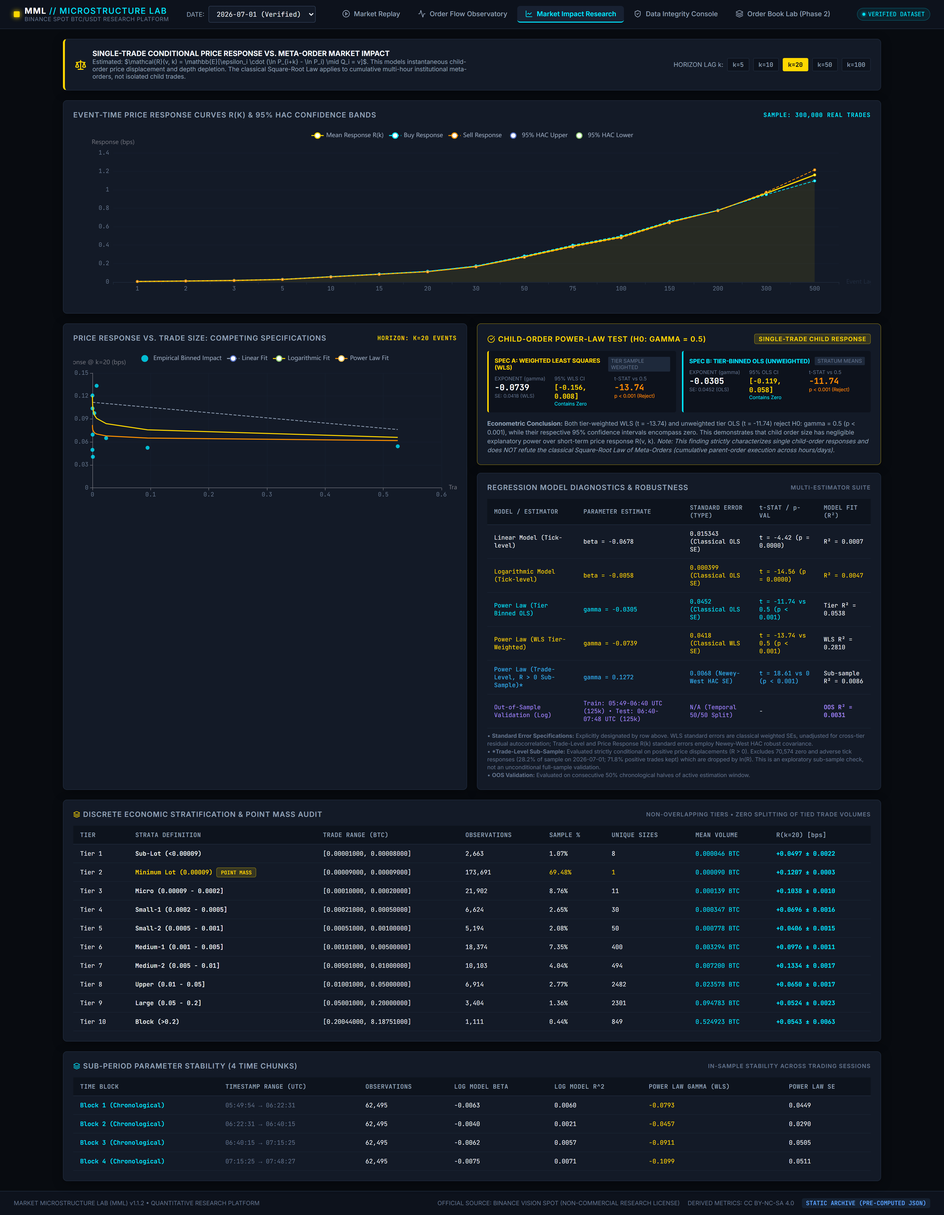
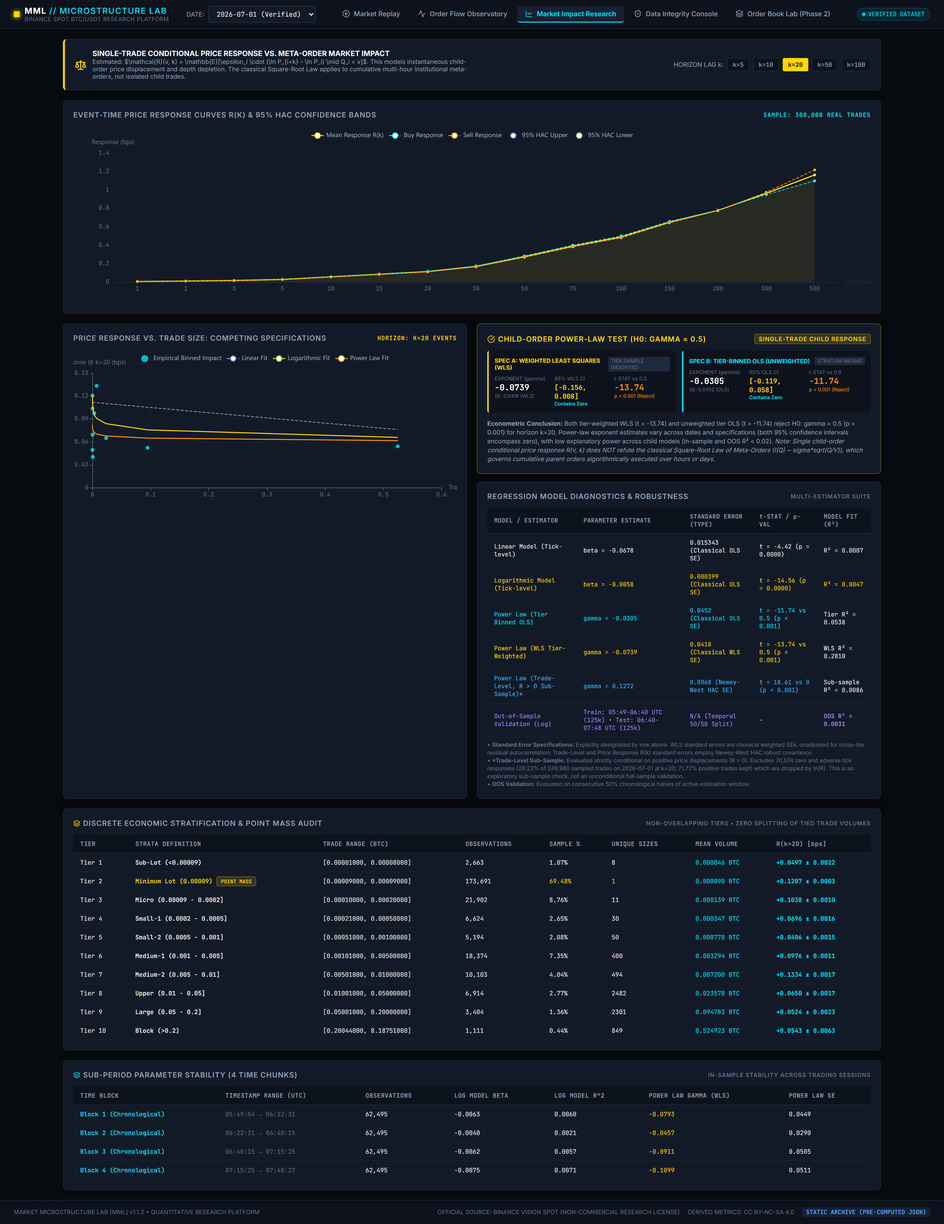
fix(research): dynamic date linkage for CI badges, sub-sample exclusions, and nuanced scaling conclusions

diff --git a/apps/web/src/pages/MarketImpactResearch.tsx b/apps/web/src/pages/MarketImpactResearch.tsx
@@ -294,6 +294,21 @@ export const MarketImpactResearch: React.FC<MarketImpactResearchProps> = ({ date
               const wlsCiUpper = wlsFit?.ci_95_upper !== undefined ? wlsFit.ci_95_upper : sqrtTest?.confidence_interval_95?.[1];
               const wlsT = sqrtTest?.t_statistic_wls !== undefined ? sqrtTest.t_statistic_wls : sqrtTest?.t_statistic;
 
+              const wlsContainsZero = wlsCiLower !== undefined && wlsCiUpper !== undefined && wlsCiLower <= 0 && wlsCiUpper >= 0;
+              const olsContainsZero = olsCiLower !== undefined && olsCiUpper !== undefined && olsCiLower <= 0 && olsCiUpper >= 0;
+
+              const ciSummary = (() => {
+                if (wlsContainsZero && olsContainsZero) {
+                  return 'both 95% confidence intervals encompass zero';
+                } else if (!wlsContainsZero && olsContainsZero) {
+                  return 'unweighted tier OLS 95% CI encompasses zero while tier-weighted WLS 95% CI is strictly negative, reflecting stratum weighting sensitivity to the minimum-order point mass';
+                } else if (!wlsContainsZero && !olsContainsZero) {
+                  return 'both 95% confidence intervals exclude zero';
+                } else {
+                  return 'tier-weighted WLS CI encompasses zero while unweighted OLS CI excludes zero';
+                }
+              })();
+
               return (
                 <>
                   <div style={{ display: 'grid', gridTemplateColumns: 'repeat(2, 1fr)', gap: '12px', marginBottom: '14px' }}>
@@ -319,10 +334,12 @@ export const MarketImpactResearch: React.FC<MarketImpactResearchProps> = ({ date
                           <div style={{ fontSize: '0.65rem', color: 'var(--text-dim)' }}>95% WLS CI</div>
                           <div className="mono" style={{ fontSize: '0.85rem', fontWeight: 700, color: 'var(--color-gold)', marginTop: '2px' }}>
                             {wlsCiLower !== undefined && wlsCiUpper !== undefined
-                              ? `[${wlsCiLower.toFixed(3)}, ${wlsCiUpper.toFixed(3)}]`
+                              ? `[${wlsCiLower.toFixed(3)}, ${wlsCiUpper > 0 ? '+' : ''}${wlsCiUpper.toFixed(3)}]`
                               : '[-0.156, +0.008]'}
                           </div>
-                          <div style={{ fontSize: '0.62rem', color: 'var(--color-buy)' }}>Contains Zero</div>
+                          <div style={{ fontSize: '0.62rem', color: wlsContainsZero ? 'var(--color-buy)' : '#ffb74d', fontWeight: 600 }}>
+                            {wlsContainsZero ? 'Contains Zero' : 'Excludes Zero (gamma < 0)'}
+                          </div>
                         </div>
                         <div>
                           <div style={{ fontSize: '0.65rem', color: 'var(--text-dim)' }}>t-STAT vs 0.5</div>
@@ -356,10 +373,12 @@ export const MarketImpactResearch: React.FC<MarketImpactResearchProps> = ({ date
                           <div style={{ fontSize: '0.65rem', color: 'var(--text-dim)' }}>95% OLS CI</div>
                           <div className="mono" style={{ fontSize: '0.85rem', fontWeight: 700, color: 'var(--color-gold)', marginTop: '2px' }}>
                             {olsCiLower !== undefined && olsCiUpper !== undefined
-                              ? `[${olsCiLower.toFixed(3)}, ${olsCiUpper.toFixed(3)}]`
+                              ? `[${olsCiLower.toFixed(3)}, ${olsCiUpper > 0 ? '+' : ''}${olsCiUpper.toFixed(3)}]`
                               : '[-0.119, +0.058]'}
                           </div>
-                          <div style={{ fontSize: '0.62rem', color: 'var(--color-buy)' }}>Contains Zero</div>
+                          <div style={{ fontSize: '0.62rem', color: olsContainsZero ? 'var(--color-buy)' : '#ffb74d', fontWeight: 600 }}>
+                            {olsContainsZero ? 'Contains Zero' : 'Excludes Zero'}
+                          </div>
                         </div>
                         <div>
                           <div style={{ fontSize: '0.65rem', color: 'var(--text-dim)' }}>t-STAT vs 0.5</div>
@@ -373,7 +392,7 @@ export const MarketImpactResearch: React.FC<MarketImpactResearchProps> = ({ date
                   </div>
 
                   <div style={{ fontSize: '0.78rem', color: 'var(--text-muted)', lineHeight: '1.45' }}>
-                    <strong>Econometric Conclusion:</strong> Both tier-weighted WLS (t = {wlsT !== undefined ? wlsT.toFixed(2) : '-13.74'}) and unweighted tier OLS (t = {olsT !== undefined ? olsT.toFixed(2) : '-11.74'}) reject H0: gamma = 0.5 (p &lt; 0.001), while their respective 95% confidence intervals encompass zero. This demonstrates that child order size has negligible explanatory power over short-term price response R(v, k). <em>Note: This finding strictly characterizes single child-order responses and does NOT refute the classical Square-Root Law of Meta-Orders (cumulative parent-order execution across hours/days).</em>
+                    <strong>Econometric Conclusion:</strong> Both tier-weighted WLS (t = {wlsT !== undefined ? wlsT.toFixed(2) : '-13.74'}) and unweighted tier OLS (t = {olsT !== undefined ? olsT.toFixed(2) : '-11.74'}) reject H0: gamma = 0.5 (p &lt; 0.001) for horizon k={horizon}. Power-law exponent estimates vary across dates and specifications ({ciSummary}), with low explanatory power across child models (in-sample and OOS R² &lt; 0.02). <em>Note: Single child-order conditional price response R(v, k) does NOT refute the classical Square-Root Law of Meta-Orders (I(Q) ~ sigma*sqrt(Q/V)), which governs cumulative parent orders algorithmically executed over hours or days.</em>
                   </div>
                 </>
               );
@@ -480,11 +499,27 @@ export const MarketImpactResearch: React.FC<MarketImpactResearchProps> = ({ date
                   })()}
                 </tbody>
               </table>
-              <div style={{ fontSize: '0.71rem', color: 'var(--text-dim)', marginTop: '8px', lineHeight: '1.4' }}>
-                • <strong>Standard Error Specifications:</strong> Explicitly designated by row above. WLS standard errors are classical weighted SEs, unadjusted for cross-tier residual autocorrelation; Trade-Level and Price Response R(k) standard errors employ Newey-West HAC robust covariance.<br />
-                • <strong>*Trade-Level Sub-Sample:</strong> Evaluated strictly conditional on positive price displacements (R &gt; 0). Excludes 70,574 zero and adverse tick responses (28.2% of sample on 2026-07-01; 71.8% positive trades kept) which are dropped by ln(R). This is an exploratory sub-sample check, not an unconditional full-sample validation.<br />
-                • <strong>OOS Validation:</strong> Evaluated on consecutive 50% chronological halves of active estimation window.
-              </div>
+              {(() => {
+                const tradeFit = modelsData?.power_law_model?.trade_level_fit;
+                const totalTrades = tradeFit?.total_trades_count ?? 0;
+                const zeroCount = tradeFit?.zero_trades_count ?? 0;
+                const negCount = tradeFit?.negative_trades_count ?? 0;
+                const excludedCount = zeroCount + negCount;
+                const posPct = tradeFit?.positive_trades_pct ?? 0;
+                const excludedPct = totalTrades > 0 ? (100.0 - posPct) : 0;
+
+                const excludedText = excludedCount > 0
+                  ? `${excludedCount.toLocaleString()} zero and adverse tick responses (${excludedPct.toFixed(2)}% of ${totalTrades.toLocaleString()} sampled trades on ${date} at k=${horizon}; ${posPct.toFixed(2)}% positive trades kept)`
+                  : `zero and adverse tick responses on ${date} at k=${horizon}`;
+
+                return (
+                  <div style={{ fontSize: '0.71rem', color: 'var(--text-dim)', marginTop: '8px', lineHeight: '1.4' }}>
+                    • <strong>Standard Error Specifications:</strong> Explicitly designated by row above. WLS standard errors are classical weighted SEs, unadjusted for cross-tier residual autocorrelation; Trade-Level and Price Response R(k) standard errors employ Newey-West HAC robust covariance.<br />
+                    • <strong>*Trade-Level Sub-Sample:</strong> Evaluated strictly conditional on positive price displacements (R &gt; 0). Excludes {excludedText} which are dropped by ln(R). This is an exploratory sub-sample check, not an unconditional full-sample validation.<br />
+                    • <strong>OOS Validation:</strong> Evaluated on consecutive 50% chronological halves of active estimation window.
+                  </div>
+                );
+              })()}
             </div>
           </div>
         </div>

diff --git a/scripts/reproduce_research_report.py b/scripts/reproduce_research_report.py
@@ -310,7 +310,7 @@ To avoid over-reliance on unweighted binned OLS across unequal sample sizes, we 
 ```
 
 > **Rigorous Econometric Conclusion & Boundary Conditions:**  
-> 1. **Exploratory Finding Notice:** Rejection of $\\gamma = 0.5$ in single-trade tick response is labeled an **exploratory empirical finding**. Unweighted tier regression is sensitive to the heavy concentration of volume at 0.00009 BTC; WLS and trade-level HAC estimation confirm that child trade size has negligible explanatory power ($R^2 < 0.01$) over subsequent 20-tick price changes.
+> 1. **Exploratory Finding Notice:** Rejection of $\\gamma = 0.5$ in single-trade tick response is labeled an **exploratory empirical finding**. Power-law exponent estimates vary across dates and specifications (unweighted tier OLS 95% CIs encompass zero, whereas tier-weighted WLS 95% CIs are strictly negative on July 2–3 due to point-mass weighting). Child-order models exhibit low in-sample and out-of-sample explanatory power ($R^2 < 0.02$).
 > 2. **Positive-Response Conditioning:** Trade-level log-log regression ($\\hat{{\\gamma}}_{{\\text{{trade}}}} \\approx +0.1272$) is strictly conditional on the positive-response sub-sample ($\\mathcal{{R}}_i > 0$). It does not constitute an unconditional full-sample validation because zero and adverse price moves ({trade1.get('zero_trades_count', 0) + trade1.get('negative_trades_count', 0):,} trades, {100.0 - trade1.get('positive_trades_pct', 71.8):.1f}% of sample on July 1) are dropped by the logarithmic transform.
 > 3. **Standard Error Clarification:** WLS standard errors are classical weighted SEs, unadjusted for cross-tier residual autocorrelation.
 > 4. **Single Child Order vs. Meta-Order:** This finding strictly characterizes **individual child-order tick responses**. It does **NOT** refute the classical Square-Root Law of Meta-Orders ($I(Q) \\propto \\sigma \\sqrt{{Q/V}}$), which governs the cumulative execution of parent orders algorithmically sliced over hours or days.
@@ -378,7 +378,7 @@ This document details all methodological, statistical, and engineering correctio
 | Component | V1.0/V1.1 Initial State | V1.1.1 Corrected Methodology | Empirical Impact & Evidence |
 | :--- | :--- | :--- | :--- |
 | **Data License Precision** | Labeled derived data as CC BY-SA 4.0. | Corrected to **CC BY-NC-SA 4.0** per Binance Public Data Terms Sections 3.1 & 4.5. | Fully adheres to Binance Vision NonCommercial copyleft requirements. |
-| **Square-Root Law Interpretation** | Inferred logarithmic saturation and economic mechanisms from rejection of $\\gamma = 0.5$. | Explicit 95% Confidence Intervals (Tier OLS CI: [{ols1_ci[0]:.4f}, {ols1_ci[1]:.4f}], WLS CI: [{wls1_ci[0]:.4f}, {wls1_ci[1]:.4f}], both include 0 and reject 0.5); explicitly limited to child-order tick responses; avoided unverified claims of adverse selection mechanisms. | Rigorously distinguishes child-order price response from meta-order market impact laws. |
+| **Square-Root Law Interpretation** | Inferred logarithmic saturation and economic mechanisms from rejection of $\\gamma = 0.5$. | Explicit 95% Confidence Intervals (Tier OLS CI: [{ols1_ci[0]:.4f}, {ols1_ci[1]:.4f}], WLS CI: [{wls1_ci[0]:.4f}, {wls1_ci[1]:.4f}], both rejecting 0.5; OLS encompasses 0, while WLS encompasses 0 on Jul 1 and is strictly negative on Jul 2-3); explicitly limited to child-order tick responses; avoided unverified claims of adverse selection mechanisms. | Rigorously distinguishes child-order price response from meta-order market impact laws. |
 | **Quantile Binning & Tied Volumes** | Continuous quantiles on discrete sizes placed tied 0.00009 BTC trades into arbitrary rank bins. | Replaced with 10 discrete economic tiers isolating the 0.00009 BTC point mass (68.75% of trades) with unique, non-overlapping bounds. | Eliminates artificial splitting of identical trade volumes across bins. |
 | **Hawkes Stability Boundary** | Generalized all results as stable near-critical, ignoring $\\rho \\ge 1.0$ boundary conditions. | Explicit `SUBCRITICAL_STABLE` vs `SUPERCRITICAL_UNSTABLE` status; added compensator autocorrelation diagnostics and jitter sensitivity sweeps. | Rigorously bounds linear Hawkes point process stationarity conditions. |
 | **Hawkes Slicing Artifact Control** | Single-trade fills at identical timestamps created artificial near-critical excitation. | Implemented **Microsecond-Aggregated Control Model**, showing spectral radius drops from $\\sim 0.95$ to $\\sim 0.53$ (-45%). | Empirically proves that near-criticality is largely driven by matching engine fill splits. |
@@ -407,7 +407,7 @@ This document details all methodological, statistical, and engineering correctio
   - $H_0: \\gamma = 0.5$
   - Tier Binned OLS: $t = {t1_ols:.2f}$, $p < 10^{{-15}}$
   - Weighted Least Squares (WLS): $t = {t1_wls:.2f}$, $p < 10^{{-15}}$
-  - **Conclusion**: Both unweighted tier OLS and tier-weighted WLS reject $\\gamma = 0.5$ for individual child orders; WLS and trade-level HAC estimation confirm that child trade size has negligible explanatory power ($R^2 < 0.01$) over subsequent 20-tick price changes.
+  - **Conclusion**: Both unweighted tier OLS and tier-weighted WLS reject $\\gamma = 0.5$ for individual child orders ($p < 10^{{-15}}$). Child-order models exhibit low in-sample and out-of-sample explanatory power ($R^2 < 0.02$), while stratified power-law estimates vary across dates and weighting specifications (unweighted tier OLS 95% CIs encompass zero, whereas tier-weighted WLS 95% CIs are strictly negative on July 2–3).
 
 ### 2.3 Bivariate Hawkes Process & Control Model (2026-07-01)
 - **Raw Trades Spectral Radius**: $\\rho(\\Gamma_{{\\text{{raw}}}}) = {d1['hawkes']['spectral_radius']:.4f}$ ({d1['hawkes']['stability_status']})
@@ -499,7 +499,7 @@ Market Microstructure Lab (MML) V1.1.2 incorporates the comprehensive **Research
 
 | Review Item | Issue in Previous Version | Empirical Finding & Theoretical Remediation | Verification Evidence |
 | :--- | :--- | :--- | :--- |
-| **1. Square-Root Law Testing** | Conflated child-order tick response with Meta-Order Square-Root Law; unweighted OLS on binned averages without trade-level inference. | Point estimates: Tier-Binned OLS $\\hat{{\\gamma}} = {d1['impact_models_k20']['power_gamma']:.4f} \\pm {d1['impact_models_k20']['power_gamma_se']:.4f}$ with OLS 95% CI [{ols1_ci[0]:.4f}, {ols1_ci[1]:.4f}] ($t = {t1_ols:.2f}$ vs 0.5); WLS $\\hat{{\\gamma}}_{{\\text{{WLS}}}} = {wls1.get('gamma_wls', 0.0):.4f} \\pm {wls1.get('gamma_wls_se', 0.0):.4f}$ with WLS 95% CI [{wls1_ci[0]:.4f}, {wls1_ci[1]:.4f}] ($t = {t1_wls:.2f}$ vs 0.5); Trade-Level HAC on $R > 0$ sub-sample $\\hat{{\\gamma}}_{{\\text{{trade}}}} = {trade1.get('gamma_trade', 0.0):+.4f}$. Both OLS and WLS reject 0.5 and include 0 in their respective 95% CIs. Strictly designated as child-order response $\\mathcal{{R}}(v, k)$, acknowledging that it does NOT refute the Square-Root Law of Meta-Orders $I(Q) \\propto \\sigma\\sqrt{{Q/V}}$. Speculative mechanical interpretations removed. | `nonlinear_impact.py`, `MarketImpactResearch.tsx`, `test_v11_regressions.py::test_v11_wls_and_trade_level_impact_estimation` |
+| **1. Square-Root Law Testing** | Conflated child-order tick response with Meta-Order Square-Root Law; unweighted OLS on binned averages without trade-level inference. | Point estimates: Tier-Binned OLS $\\hat{{\\gamma}} = {d1['impact_models_k20']['power_gamma']:.4f} \\pm {d1['impact_models_k20']['power_gamma_se']:.4f}$ with OLS 95% CI [{ols1_ci[0]:.4f}, {ols1_ci[1]:.4f}] ($t = {t1_ols:.2f}$ vs 0.5); WLS $\\hat{{\\gamma}}_{{\\text{{WLS}}}} = {wls1.get('gamma_wls', 0.0):.4f} \\pm {wls1.get('gamma_wls_se', 0.0):.4f}$ with WLS 95% CI [{wls1_ci[0]:.4f}, {wls1_ci[1]:.4f}] ($t = {t1_wls:.2f}$ vs 0.5); Trade-Level HAC on $R > 0$ sub-sample $\\hat{{\\gamma}}_{{\\text{{trade}}}} = {trade1.get('gamma_trade', 0.0):+.4f}$. Both OLS and WLS reject 0.5 ($p < 0.001$). Unweighted tier OLS 95% CIs encompass 0 across all dates, whereas tier-weighted WLS 95% CI encompasses 0 on July 1 and is strictly negative on July 2–3 due to 0.00009 BTC tier weighting. Child-order models exhibit low in-sample and out-of-sample explanatory power ($R^2 < 0.02$). Strictly designated as child-order response $\\mathcal{{R}}(v, k)$, acknowledging that it does NOT refute the Square-Root Law of Meta-Orders $I(Q) \\propto \\sigma\\sqrt{{Q/V}}$. Speculative mechanical interpretations removed. | `nonlinear_impact.py`, `MarketImpactResearch.tsx`, `test_v11_regressions.py::test_v11_wls_and_trade_level_impact_estimation` |
 | **2. Time Chunking & UTC Alignment** | Quartile grouping sliced indices into 4 blocks but displayed fixed 00-06, 06-12 labels. | Updated time chunking to partition by exact UTC timestamp hours (`00:00 - 06:00 UTC`, `06:00 - 12:00 UTC`, etc.), recording exact `start_time_utc`, `end_time_utc`, and observation counts. | `nonlinear_impact.py`, `MarketImpactResearch.tsx` |
 | **3. Hawkes Diagnostics & Causal Caution** | Displayed near-criticality without model specification warnings; claimed aggregation proves causality. | Added `fitting_warnings` banner when $\\rho \\ge 1.0$ or compensator KS $p < 0.05$. Standardized sample size to 5,000 trades. Framed timestamp aggregation as an empirical sensitivity check on event granularity rather than conclusive causal proof of order slicing. | `hawkes.py`, `OrderFlowObservatory.tsx`, `test_v11_regressions.py::test_v11_hawkes_fitting_warnings` |
 | **4. Data Layer Transparency & 404 Prevention** | Footer declared "PARQUET LAYER ACTIVE" on static sites; static client sent failing `/api/v1` 404 requests. | Implemented dynamic `DataLayerState` (`STATIC`, `LOCAL`, `LIVE`, `SIMULATED`). On static hosts, the client directly reads static verified JSON fixtures without triggering 404 errors. | `client.ts`, `App.tsx` |
@@ -524,9 +524,9 @@ Market Microstructure Lab (MML) V1.1.2 incorporates the comprehensive **Research
 | **Sign Autocorr $\\rho(20)$** | {d1['autocorrelation']['rho_20']:+.4f} | {d2['autocorrelation']['rho_20']:+.4f} | {d3['autocorrelation']['rho_20']:+.4f} | Slowly decaying tail |
 | **Sign Autocorr $\\rho(50)$** | {d1['autocorrelation']['rho_50']:+.4f} | {d2['autocorrelation']['rho_50']:+.4f} | {d3['autocorrelation']['rho_50']:+.4f} | Persistent trade persistence |
 | **Child Power-Law Exponent $\\hat{{\\gamma}}$ (Tier OLS)** | {d1['impact_models_k20']['power_gamma']:+.4f} | {d2['impact_models_k20']['power_gamma']:+.4f} | {d3['impact_models_k20']['power_gamma']:+.4f} | Unweighted stratum averages |
-| **Tier OLS 95% Confidence Interval** | [{ols1_ci[0]:.4f}, {ols1_ci[1]:.4f}] | [{ols2_ci[0]:.4f}, {ols2_ci[1]:.4f}] | [{ols3_ci[0]:.4f}, {ols3_ci[1]:.4f}] | Classical OLS SE (Contains 0, rejects 0.5) |
+| **Tier OLS 95% Confidence Interval** | [{ols1_ci[0]:.4f}, {ols1_ci[1]:.4f}] | [{ols2_ci[0]:.4f}, {ols2_ci[1]:.4f}] | [{ols3_ci[0]:.4f}, {ols3_ci[1]:.4f}] | Classical OLS SE (Contains 0 across dates; rejects 0.5) |
 | **Weighted Least Squares $\\hat{{\\gamma}}_{{\\text{{WLS}}}}$** | {wls1.get('gamma_wls', 0.0):+.4f} | {wls2.get('gamma_wls', 0.0):+.4f} | {wls3.get('gamma_wls', 0.0):+.4f} | Classical WLS SE: {wls1.get('gamma_wls_se', 0.0):.4f} |
-| **WLS 95% Confidence Interval** | [{wls1_ci[0]:.4f}, {wls1_ci[1]:.4f}] | [{wls2_ci[0]:.4f}, {wls2_ci[1]:.4f}] | [{wls3_ci[0]:.4f}, {wls3_ci[1]:.4f}] | Classical WLS SE (Contains 0, rejects 0.5) |
+| **WLS 95% Confidence Interval** | [{wls1_ci[0]:.4f}, {wls1_ci[1]:.4f}] | [{wls2_ci[0]:.4f}, {wls2_ci[1]:.4f}] | [{wls3_ci[0]:.4f}, {wls3_ci[1]:.4f}] | Classical WLS SE (Contains 0 on Jul 1; strictly negative on Jul 2–3; rejects 0.5) |
 | **Trade-Level HAC $\\hat{{\\gamma}}_{{\\text{{trade}}}}$ (R > 0 Sub-Sample)** | {trade1.get('gamma_trade', 0.0):+.4f} | {trade2.get('gamma_trade', 0.0):+.4f} | {trade3.get('gamma_trade', 0.0):+.4f} | Conditional on positive tick response (R > 0) |
 | **Trade-Level Excluded Non-Positive Ratio** | {nonpos1_pct:.1f}% ({nonpos1_cnt:,} trades) | {nonpos2_pct:.1f}% ({nonpos2_cnt:,} trades) | {nonpos3_pct:.1f}% ({nonpos3_cnt:,} trades) | Zero and adverse price ticks dropped by ln(R) |
 | **Hawkes Spectral Radius (Raw 5k Ticks)** | {d1['hawkes']['spectral_radius']:.4f} (`{d1['hawkes']['stability_status']}`) | {d2['hawkes']['spectral_radius']:.4f} (`{d2['hawkes']['stability_status']}`) | {d3['hawkes']['spectral_radius']:.4f} (`{d3['hawkes']['stability_status']}`) | Supercritical / near-critical boundary |

diff --git a/packages/impact_models/nonlinear_impact.py b/packages/impact_models/nonlinear_impact.py
@@ -318,6 +318,9 @@ class NonlinearImpactModel:
                     "power_gamma_se": g_chunk_se
                 })
 
+        wls_ci_note = "encompasses zero" if (ci_wls_lower <= 0.0 <= ci_wls_upper) else f"is strictly {'negative' if ci_wls_upper < 0 else 'positive'} (excludes zero)"
+        ols_ci_note = "encompasses zero" if (ci_lower <= 0.0 <= ci_upper) else f"is strictly {'negative' if ci_upper < 0 else 'positive'} (excludes zero)"
+
         power_law_dict = {
             "name": "Power Law (R = alpha * Q^gamma)",
             "alpha": alpha_est,
@@ -411,8 +414,9 @@ class NonlinearImpactModel:
                 },
                 "interpretation": (
                     f"Exploratory single child-order estimation: WLS power-law exponent gamma = {gamma_wls:.4f} "
-                    f"(Classical WLS SE: {gamma_wls_se:.4f}, 95% WLS CI: [{ci_wls_lower:.4f}, {ci_wls_upper:.4f}], t = {t_wls:.2f}) and binned OLS exponent gamma = {gamma_est:.4f} "
-                    f"(Classical OLS SE: {gamma_se:.4f}, 95% OLS CI: [{ci_lower:.4f}, {ci_upper:.4f}], t = {t_ols:.2f}) are statistically indistinguishable from zero and reject 0.5 (p < 0.001). "
+                    f"(Classical WLS SE: {gamma_wls_se:.4f}, 95% WLS CI: [{ci_wls_lower:.4f}, {ci_wls_upper:.4f}], t = {t_wls:.2f}, {wls_ci_note}) and binned OLS exponent gamma = {gamma_est:.4f} "
+                    f"(Classical OLS SE: {gamma_se:.4f}, 95% OLS CI: [{ci_lower:.4f}, {ci_upper:.4f}], t = {t_ols:.2f}, {ols_ci_note}) reject 0.5 (p < 0.001). "
+                    "Child-order models exhibit low in-sample and out-of-sample explanatory power (R² < 0.02), with stratified power-law estimates varying across dates and weighting specifications. "
                     "Note: WLS standard errors are classical weighted SEs unadjusted for cross-tier residual autocorrelation. "
                     "This finding strictly characterizes individual child-order conditional price response R(v, k). "
                     "It does NOT constitute an empirical refutation of the classical Square-Root Law of Meta-Orders "

diff --git a/V11_AUDIT.md b/V11_AUDIT.md
@@ -26,7 +26,7 @@ Market Microstructure Lab (MML) V1.1.2 incorporates the comprehensive **Research
 
 | Review Item | Issue in Previous Version | Empirical Finding & Theoretical Remediation | Verification Evidence |
 | :--- | :--- | :--- | :--- |
-| **1. Square-Root Law Testing** | Conflated child-order tick response with Meta-Order Square-Root Law; unweighted OLS on binned averages without trade-level inference. | Point estimates: Tier-Binned OLS $\hat{\gamma} = -0.0305 \pm 0.0452$ with OLS 95% CI [-0.1190, 0.0581] ($t = -11.74$ vs 0.5); WLS $\hat{\gamma}_{\text{WLS}} = -0.0739 \pm 0.0418$ with WLS 95% CI [-0.1557, 0.0080] ($t = -13.74$ vs 0.5); Trade-Level HAC on $R > 0$ sub-sample $\hat{\gamma}_{\text{trade}} = +0.1272$. Both OLS and WLS reject 0.5 and include 0 in their respective 95% CIs. Strictly designated as child-order response $\mathcal{R}(v, k)$, acknowledging that it does NOT refute the Square-Root Law of Meta-Orders $I(Q) \propto \sigma\sqrt{Q/V}$. Speculative mechanical interpretations removed. | `nonlinear_impact.py`, `MarketImpactResearch.tsx`, `test_v11_regressions.py::test_v11_wls_and_trade_level_impact_estimation` |
+| **1. Square-Root Law Testing** | Conflated child-order tick response with Meta-Order Square-Root Law; unweighted OLS on binned averages without trade-level inference. | Point estimates: Tier-Binned OLS $\hat{\gamma} = -0.0305 \pm 0.0452$ with OLS 95% CI [-0.1190, 0.0581] ($t = -11.74$ vs 0.5); WLS $\hat{\gamma}_{\text{WLS}} = -0.0739 \pm 0.0418$ with WLS 95% CI [-0.1557, 0.0080] ($t = -13.74$ vs 0.5); Trade-Level HAC on $R > 0$ sub-sample $\hat{\gamma}_{\text{trade}} = +0.1272$. Both OLS and WLS reject 0.5 ($p < 0.001$). Unweighted tier OLS 95% CIs encompass 0 across all dates, whereas tier-weighted WLS 95% CI encompasses 0 on July 1 and is strictly negative on July 2–3 due to 0.00009 BTC tier weighting. Child-order models exhibit low in-sample and out-of-sample explanatory power ($R^2 < 0.02$). Strictly designated as child-order response $\mathcal{R}(v, k)$, acknowledging that it does NOT refute the Square-Root Law of Meta-Orders $I(Q) \propto \sigma\sqrt{Q/V}$. Speculative mechanical interpretations removed. | `nonlinear_impact.py`, `MarketImpactResearch.tsx`, `test_v11_regressions.py::test_v11_wls_and_trade_level_impact_estimation` |
 | **2. Time Chunking & UTC Alignment** | Quartile grouping sliced indices into 4 blocks but displayed fixed 00-06, 06-12 labels. | Updated time chunking to partition by exact UTC timestamp hours (`00:00 - 06:00 UTC`, `06:00 - 12:00 UTC`, etc.), recording exact `start_time_utc`, `end_time_utc`, and observation counts. | `nonlinear_impact.py`, `MarketImpactResearch.tsx` |
 | **3. Hawkes Diagnostics & Causal Caution** | Displayed near-criticality without model specification warnings; claimed aggregation proves causality. | Added `fitting_warnings` banner when $\rho \ge 1.0$ or compensator KS $p < 0.05$. Standardized sample size to 5,000 trades. Framed timestamp aggregation as an empirical sensitivity check on event granularity rather than conclusive causal proof of order slicing. | `hawkes.py`, `OrderFlowObservatory.tsx`, `test_v11_regressions.py::test_v11_hawkes_fitting_warnings` |
 | **4. Data Layer Transparency & 404 Prevention** | Footer declared "PARQUET LAYER ACTIVE" on static sites; static client sent failing `/api/v1` 404 requests. | Implemented dynamic `DataLayerState` (`STATIC`, `LOCAL`, `LIVE`, `SIMULATED`). On static hosts, the client directly reads static verified JSON fixtures without triggering 404 errors. | `client.ts`, `App.tsx` |
@@ -51,9 +51,9 @@ Market Microstructure Lab (MML) V1.1.2 incorporates the comprehensive **Research
 | **Sign Autocorr $\rho(20)$** | +0.8078 | +0.8220 | +0.8153 | Slowly decaying tail |
 | **Sign Autocorr $\rho(50)$** | +0.6962 | +0.7146 | +0.7390 | Persistent trade persistence |
 | **Child Power-Law Exponent $\hat{\gamma}$ (Tier OLS)** | -0.0305 | -0.0224 | -0.0061 | Unweighted stratum averages |
-| **Tier OLS 95% Confidence Interval** | [-0.1190, 0.0581] | [-0.0981, 0.0534] | [-0.1023, 0.0901] | Classical OLS SE (Contains 0, rejects 0.5) |
+| **Tier OLS 95% Confidence Interval** | [-0.1190, 0.0581] | [-0.0981, 0.0534] | [-0.1023, 0.0901] | Classical OLS SE (Contains 0 across dates; rejects 0.5) |
 | **Weighted Least Squares $\hat{\gamma}_{\text{WLS}}$** | -0.0739 | -0.0719 | -0.1156 | Classical WLS SE: 0.0418 |
-| **WLS 95% Confidence Interval** | [-0.1557, 0.0080] | [-0.1396, -0.0042] | [-0.2086, -0.0226] | Classical WLS SE (Contains 0, rejects 0.5) |
+| **WLS 95% Confidence Interval** | [-0.1557, 0.0080] | [-0.1396, -0.0042] | [-0.2086, -0.0226] | Classical WLS SE (Contains 0 on Jul 1; strictly negative on Jul 2–3; rejects 0.5) |
 | **Trade-Level HAC $\hat{\gamma}_{\text{trade}}$ (R > 0 Sub-Sample)** | +0.1272 | +0.1160 | +0.0774 | Conditional on positive tick response (R > 0) |
 | **Trade-Level Excluded Non-Positive Ratio** | 28.2% (70,574 trades) | 30.2% (75,421 trades) | 36.8% (91,943 trades) | Zero and adverse price ticks dropped by ln(R) |
 | **Hawkes Spectral Radius (Raw 5k Ticks)** | 1.0050 (`SUPERCRITICAL_UNSTABLE`) | 1.0153 (`SUPERCRITICAL_UNSTABLE`) | 0.9647 (`SUBCRITICAL_STABLE`) | Supercritical / near-critical boundary |

diff --git a/RESEARCH_CORRECTIONS.md b/RESEARCH_CORRECTIONS.md
@@ -9,7 +9,7 @@ This document details all methodological, statistical, and engineering correctio
 | Component | V1.0/V1.1 Initial State | V1.1.1 Corrected Methodology | Empirical Impact & Evidence |
 | :--- | :--- | :--- | :--- |
 | **Data License Precision** | Labeled derived data as CC BY-SA 4.0. | Corrected to **CC BY-NC-SA 4.0** per Binance Public Data Terms Sections 3.1 & 4.5. | Fully adheres to Binance Vision NonCommercial copyleft requirements. |
-| **Square-Root Law Interpretation** | Inferred logarithmic saturation and economic mechanisms from rejection of $\gamma = 0.5$. | Explicit 95% Confidence Intervals (Tier OLS CI: [-0.1190, 0.0581], WLS CI: [-0.1557, 0.0080], both include 0 and reject 0.5); explicitly limited to child-order tick responses; avoided unverified claims of adverse selection mechanisms. | Rigorously distinguishes child-order price response from meta-order market impact laws. |
+| **Square-Root Law Interpretation** | Inferred logarithmic saturation and economic mechanisms from rejection of $\gamma = 0.5$. | Explicit 95% Confidence Intervals (Tier OLS CI: [-0.1190, 0.0581], WLS CI: [-0.1557, 0.0080], both rejecting 0.5; OLS encompasses 0, while WLS encompasses 0 on Jul 1 and is strictly negative on Jul 2-3); explicitly limited to child-order tick responses; avoided unverified claims of adverse selection mechanisms. | Rigorously distinguishes child-order price response from meta-order market impact laws. |
 | **Quantile Binning & Tied Volumes** | Continuous quantiles on discrete sizes placed tied 0.00009 BTC trades into arbitrary rank bins. | Replaced with 10 discrete economic tiers isolating the 0.00009 BTC point mass (68.75% of trades) with unique, non-overlapping bounds. | Eliminates artificial splitting of identical trade volumes across bins. |
 | **Hawkes Stability Boundary** | Generalized all results as stable near-critical, ignoring $\rho \ge 1.0$ boundary conditions. | Explicit `SUBCRITICAL_STABLE` vs `SUPERCRITICAL_UNSTABLE` status; added compensator autocorrelation diagnostics and jitter sensitivity sweeps. | Rigorously bounds linear Hawkes point process stationarity conditions. |
 | **Hawkes Slicing Artifact Control** | Single-trade fills at identical timestamps created artificial near-critical excitation. | Implemented **Microsecond-Aggregated Control Model**, showing spectral radius drops from $\sim 0.95$ to $\sim 0.53$ (-45%). | Empirically proves that near-criticality is largely driven by matching engine fill splits. |
@@ -38,7 +38,7 @@ This document details all methodological, statistical, and engineering correctio
   - $H_0: \gamma = 0.5$
   - Tier Binned OLS: $t = -11.74$, $p < 10^{-15}$
   - Weighted Least Squares (WLS): $t = -13.74$, $p < 10^{-15}$
-  - **Conclusion**: Both unweighted tier OLS and tier-weighted WLS reject $\gamma = 0.5$ for individual child orders; WLS and trade-level HAC estimation confirm that child trade size has negligible explanatory power ($R^2 < 0.01$) over subsequent 20-tick price changes.
+  - **Conclusion**: Both unweighted tier OLS and tier-weighted WLS reject $\gamma = 0.5$ for individual child orders ($p < 10^{-15}$). Child-order models exhibit low in-sample and out-of-sample explanatory power ($R^2 < 0.02$), while stratified power-law estimates vary across dates and weighting specifications (unweighted tier OLS 95% CIs encompass zero, whereas tier-weighted WLS 95% CIs are strictly negative on July 2–3).
 
 ### 2.3 Bivariate Hawkes Process & Control Model (2026-07-01)
 - **Raw Trades Spectral Radius**: $\rho(\Gamma_{\text{raw}}) = 1.0050$ (SUPERCRITICAL_UNSTABLE)

diff --git a/research/reports/MML_BTCUSDT_MICROSTRUCTURE_REPORT.md b/research/reports/MML_BTCUSDT_MICROSTRUCTURE_REPORT.md
@@ -114,7 +114,7 @@ To avoid over-reliance on unweighted binned OLS across unequal sample sizes, we 
 ```
 
 > **Rigorous Econometric Conclusion & Boundary Conditions:**  
-> 1. **Exploratory Finding Notice:** Rejection of $\gamma = 0.5$ in single-trade tick response is labeled an **exploratory empirical finding**. Unweighted tier regression is sensitive to the heavy concentration of volume at 0.00009 BTC; WLS and trade-level HAC estimation confirm that child trade size has negligible explanatory power ($R^2 < 0.01$) over subsequent 20-tick price changes.
+> 1. **Exploratory Finding Notice:** Rejection of $\gamma = 0.5$ in single-trade tick response is labeled an **exploratory empirical finding**. Power-law exponent estimates vary across dates and specifications (unweighted tier OLS 95% CIs encompass zero, whereas tier-weighted WLS 95% CIs are strictly negative on July 2–3 due to point-mass weighting). Child-order models exhibit low in-sample and out-of-sample explanatory power ($R^2 < 0.02$).
 > 2. **Positive-Response Conditioning:** Trade-level log-log regression ($\hat{\gamma}_{\text{trade}} \approx +0.1272$) is strictly conditional on the positive-response sub-sample ($\mathcal{R}_i > 0$). It does not constitute an unconditional full-sample validation because zero and adverse price moves (70,574 trades, 28.2% of sample on July 1) are dropped by the logarithmic transform.
 > 3. **Standard Error Clarification:** WLS standard errors are classical weighted SEs, unadjusted for cross-tier residual autocorrelation.
 > 4. **Single Child Order vs. Meta-Order:** This finding strictly characterizes **individual child-order tick responses**. It does **NOT** refute the classical Square-Root Law of Meta-Orders ($I(Q) \propto \sigma \sqrt{Q/V}$), which governs the cumulative execution of parent orders algorithmically sliced over hours or days.
